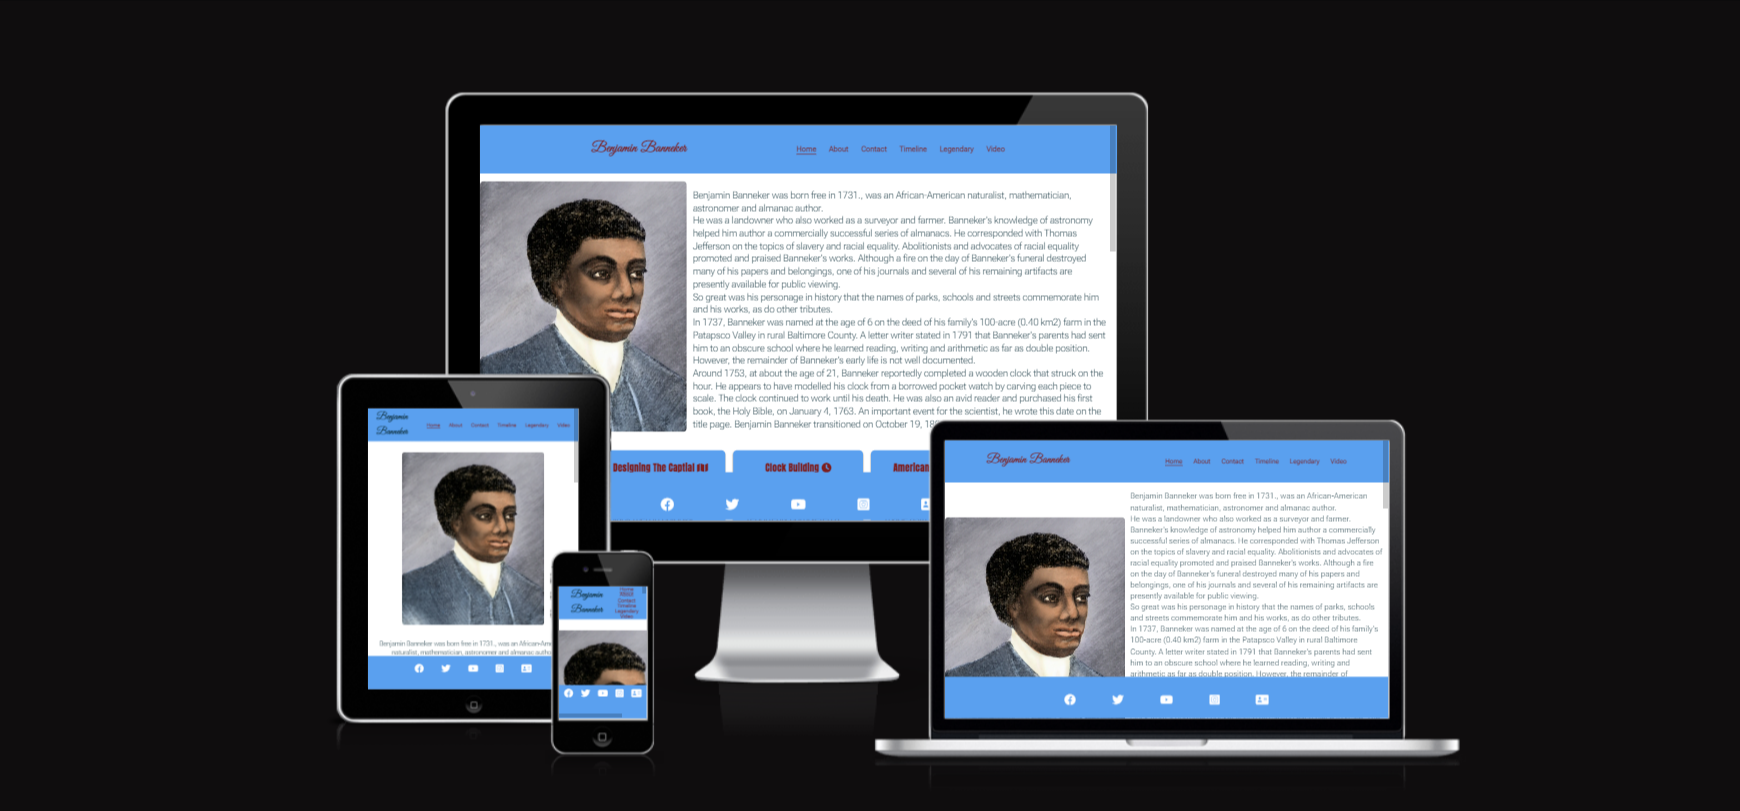
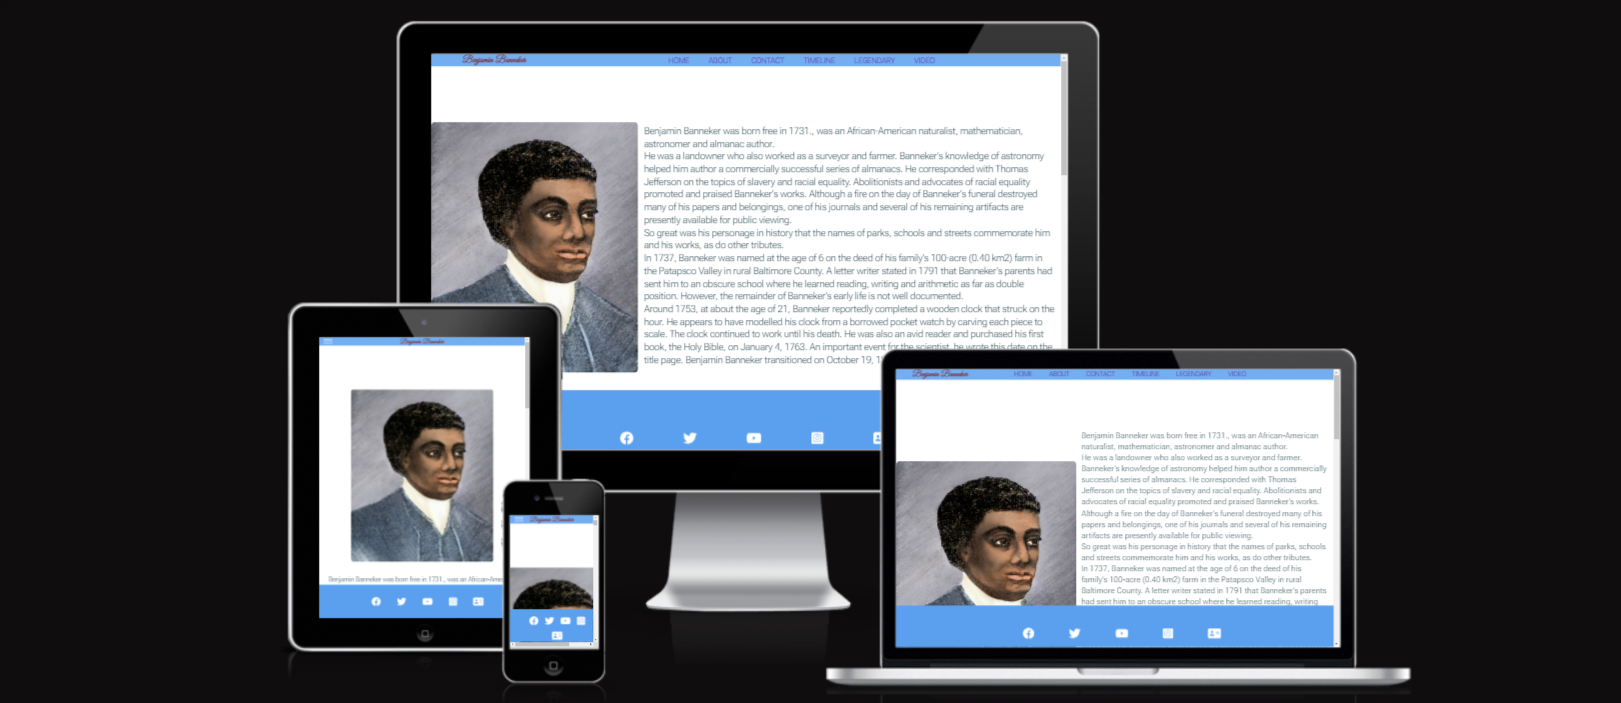
Edit readme.md image files

Changed region(s): [[0.1542, 0.0299, 0.8945, 0.9858]]

diff --git a/README.md b/README.md
@@ -49,7 +49,7 @@ Where applicable, accessibility and useability regarding color schematics, seman
 
 The familiar colors red, white and blue were used due to the subject matter and his assistance in designing the American captial. The home decor color "rule" of 60%, 30%, and 10% was applied to the genre of web development, so as not to over-use one color while relying too heavily on another. 
 
-<img src="assets/images/color rule.png">
+<img src="assets/images/Benjamin Banneker_ homepage.png">
 
 The rule for color uses was as follows: 60% white tones, 30% blue, and 10% red tones.  This made for an eye-pleasing user experience. 
 
